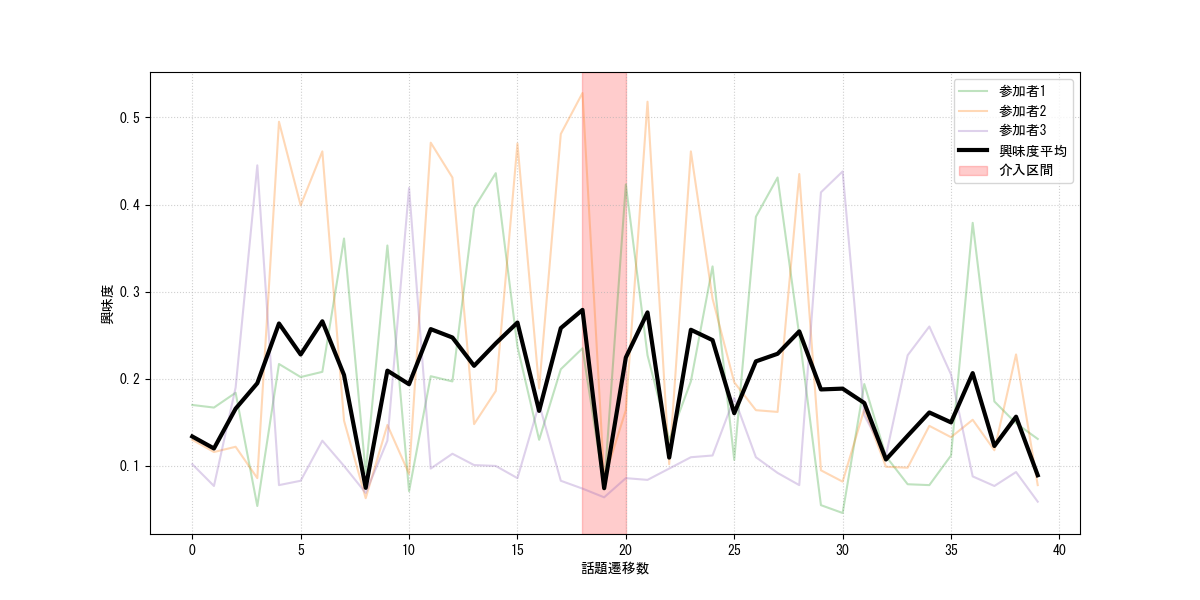
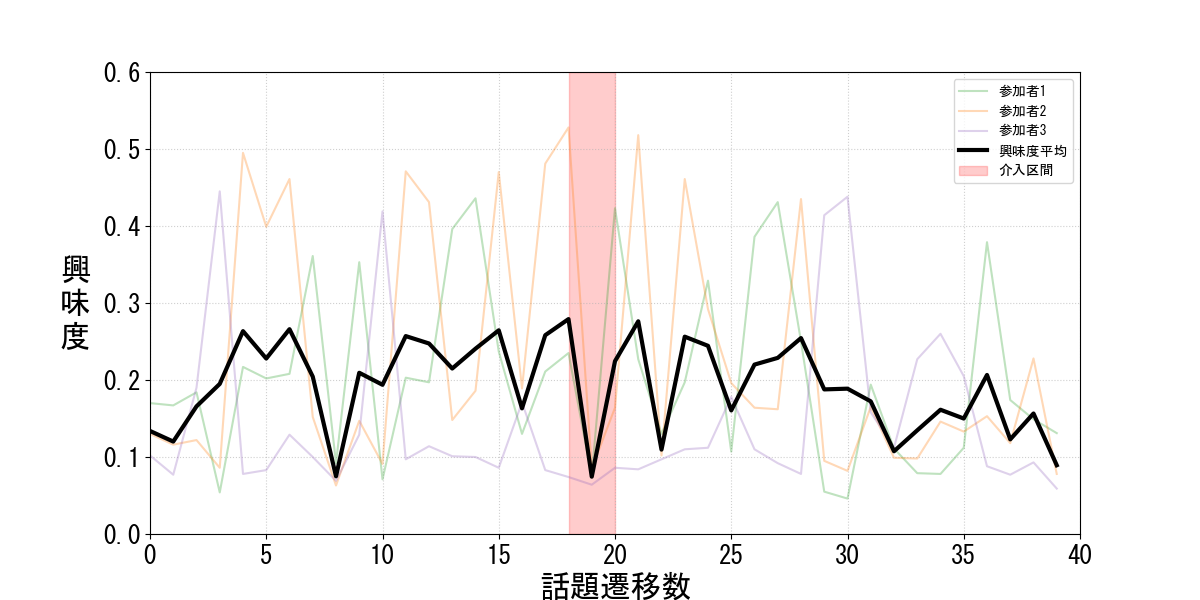
Adjust plot layout: increased font sizes, set vertical Y-label

diff --git a/Analysis/calc_avg_comparison.py b/Analysis/calc_avg_comparison.py
@@ -38,9 +38,11 @@ def plot_global_intervention_impact(file_path):
 
     plt.xlim(-0.5, 1.5)
     plt.ylim(0.10, 0.35)
-    plt.tick_params(axis='y', labelsize=13)
-    plt.xticks(x_pos, x_labels, fontsize=18)
-    plt.ylabel('興味度平均', fontsize=18)
+    plt.tick_params(axis='y', labelsize=18)
+    plt.xticks(x_pos, x_labels, fontsize=22)
+
+    plt.ylabel('興\n味\n度\n平\n均', rotation=0, labelpad=20, fontsize=22, va='center')
+
     # plt.title(f'介入前後の興味度平均の変化\nFile: {file_path}')
     plt.grid(True, axis='y', linestyle='--', alpha=0.7)
     plt.tight_layout()

diff --git a/Analysis/calc_interest_trends.py b/Analysis/calc_interest_trends.py
@@ -33,8 +33,13 @@ def plot_interest_trends_fixed(file_path):
         plt.axvspan(s, e, color='red', alpha=0.2, 
                     label='介入区間' if s == starts[0] else "", zorder=1)
 
-    plt.xlabel('話題遷移数')
-    plt.ylabel('興味度')
+    plt.xlabel('話題遷移数', fontsize=22)
+    plt.ylabel('興\n味\n度', rotation=0, labelpad=20, fontsize=22, va='center')
+
+    plt.xlim(0, 40)
+    plt.ylim(0, 0.6)
+    plt.tick_params(axis='both', which='major', labelsize=18)
+    
     plt.grid(True, linestyle=':', alpha=0.6)
     plt.legend(loc='upper right')
     

diff --git a/Analysis/intervention_scatter.py b/Analysis/intervention_scatter.py
@@ -47,11 +47,13 @@ def plot_corrected_intervention_scatter(file_path):
     
     plt.xlim(0, 0.25)
     plt.ylim(0, 0.4)
+    
+    plt.tick_params(axis='both', which='major', labelsize=18)
 
     # グラフの装飾
-    plt.xlabel('興味度分散')
-    plt.ylabel('興味度平均')
-    plt.legend()
+    plt.xlabel('興味度分散', fontsize=22)
+    plt.ylabel('興\n味\n度\n平\n均', rotation=0, labelpad=20, fontsize=22, va='center')
+
     plt.grid(True, linestyle='--', alpha=0.7)
     
     # 画像の保存
